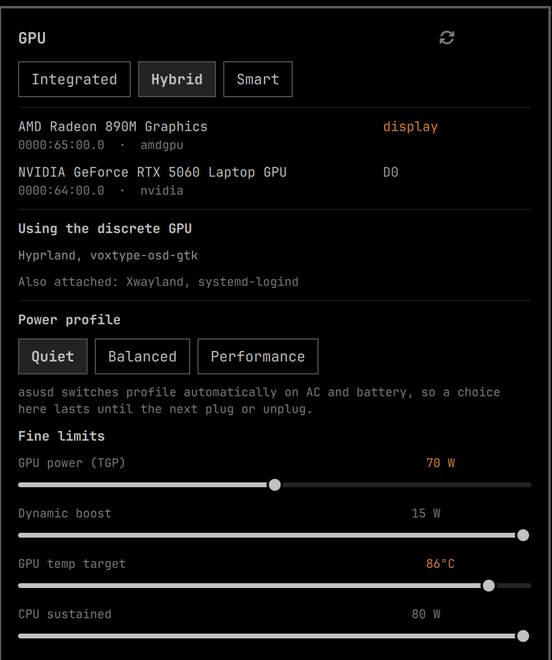
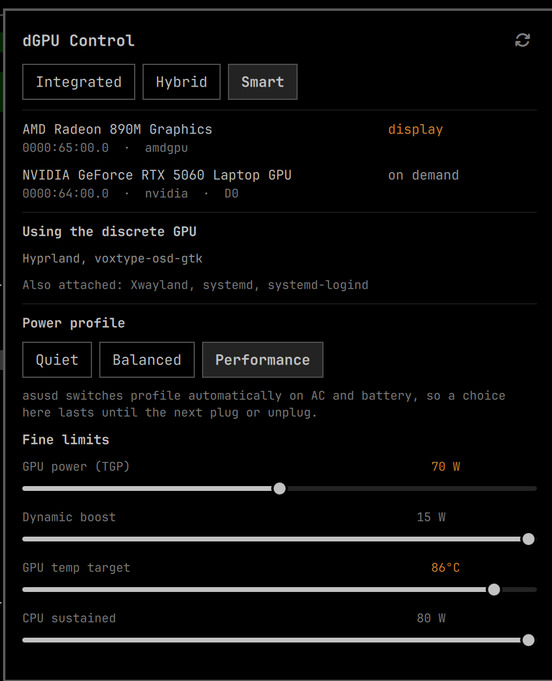
Title the panel with the plugin's name
The header read "GPU", which said neither which widget the panel
belonged to nor that it controls the discrete card specifically rather
than graphics in general.

The header row is now anchored rather than a Row with a hand-computed
spacer. The spacer was `column.width - 120`, which silently assumed the
title's width and would have pushed the refresh button off the right
edge as soon as the title grew.

Preview refreshed to match.

diff --git a/Panel.qml b/Panel.qml
@@ -166,19 +166,32 @@ Panel {
           width: parent.width
           spacing: Style.space(8)
 
-          Row {
+          // Anchored rather than a Row with a hand-computed spacer: the spacer
+          // was `column.width - 120`, which silently assumed the title's width
+          // and would push the refresh button off the right edge the moment the
+          // title grew.
+          Item {
             width: parent.width
-            spacing: Style.space(8)
+            height: Math.max(panelTitle.implicitHeight, refreshButton.height)
+
             Text {
+              id: panelTitle
+              anchors.left: parent.left
               anchors.verticalCenter: parent.verticalCenter
-              text: "GPU"
+              // The plugin's own name, not a bare "GPU". The panel is opened
+              // from a bar that may hold several widgets, and "GPU" said
+              // neither which one this was nor that it controls the discrete
+              // card specifically rather than graphics in general.
+              text: "dGPU Control"
               font.family: root.fontFamily
               font.pixelSize: Style.space(13)
               font.bold: true
               color: Color.foreground
             }
-            Item { width: Math.max(0, column.width - Style.space(120)); height: 1 }
+
             PanelActionButton {
+              id: refreshButton
+              anchors.right: parent.right
               anchors.verticalCenter: parent.verticalCenter
               iconText: root.refreshGlyph
               tooltipText: "Refresh"
